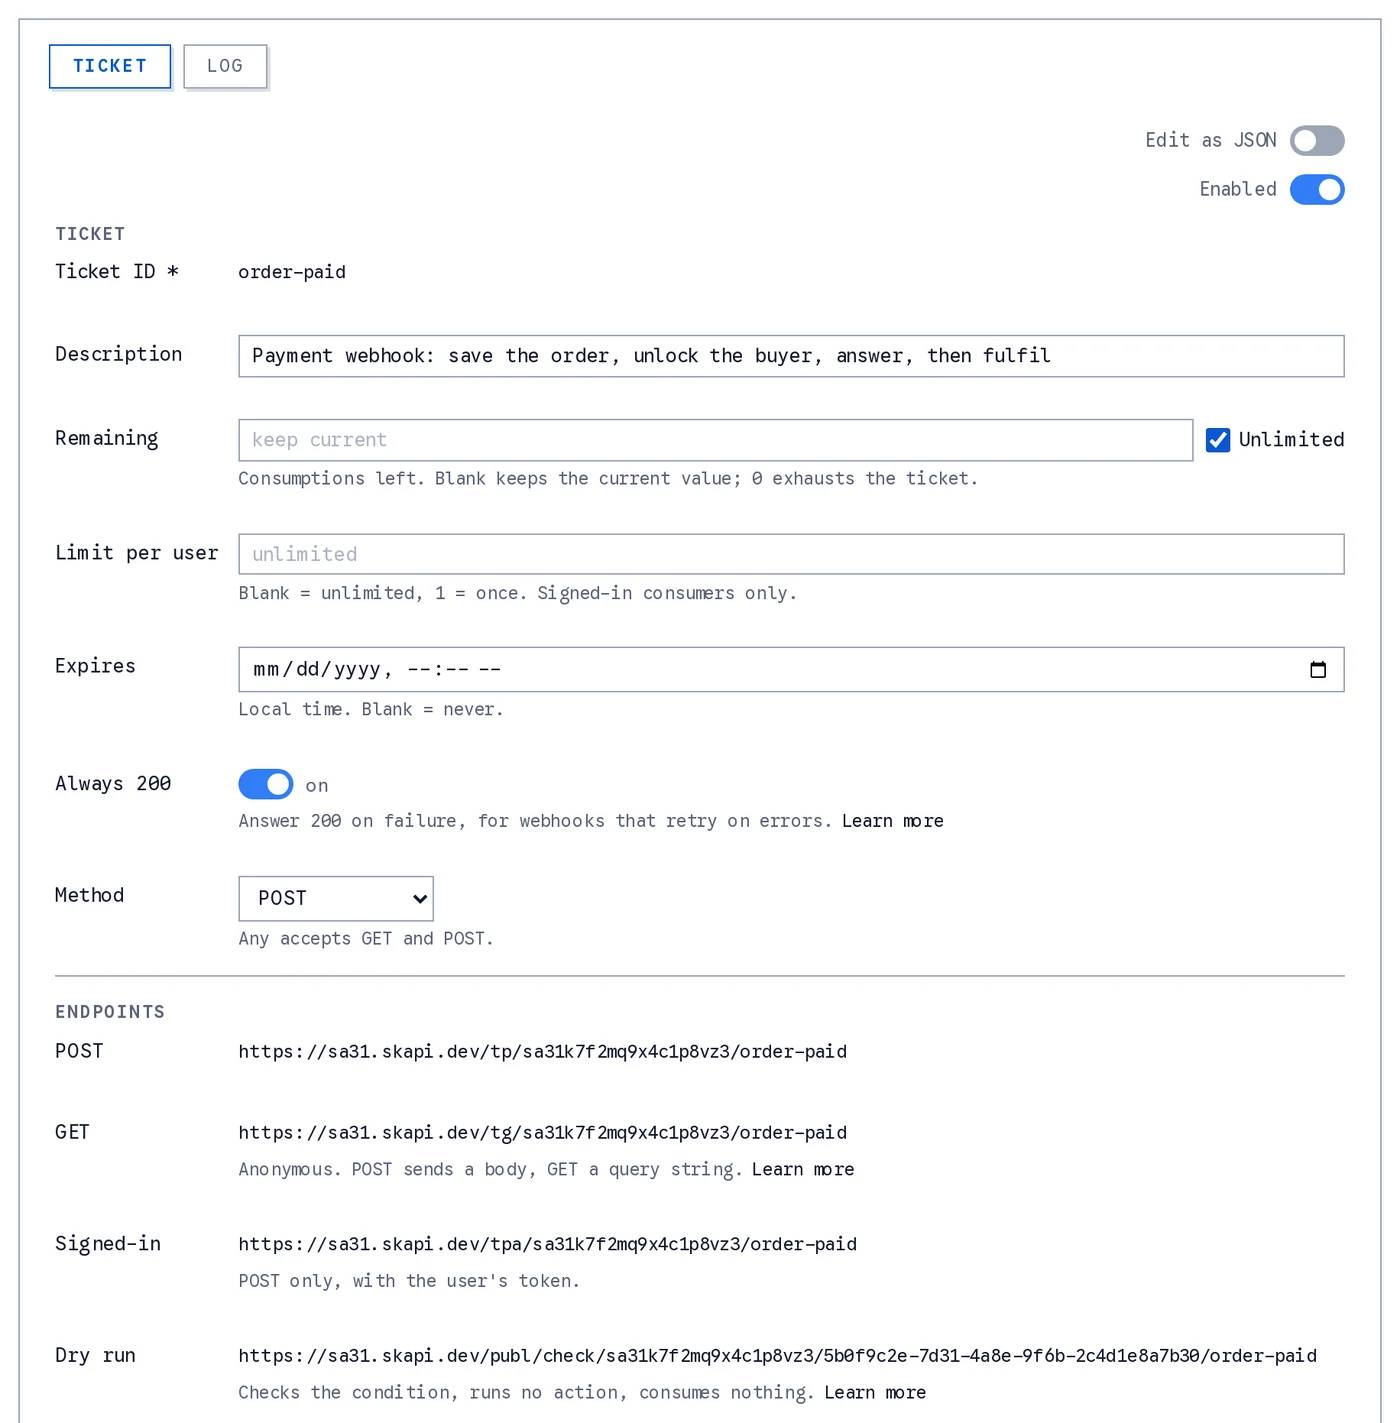
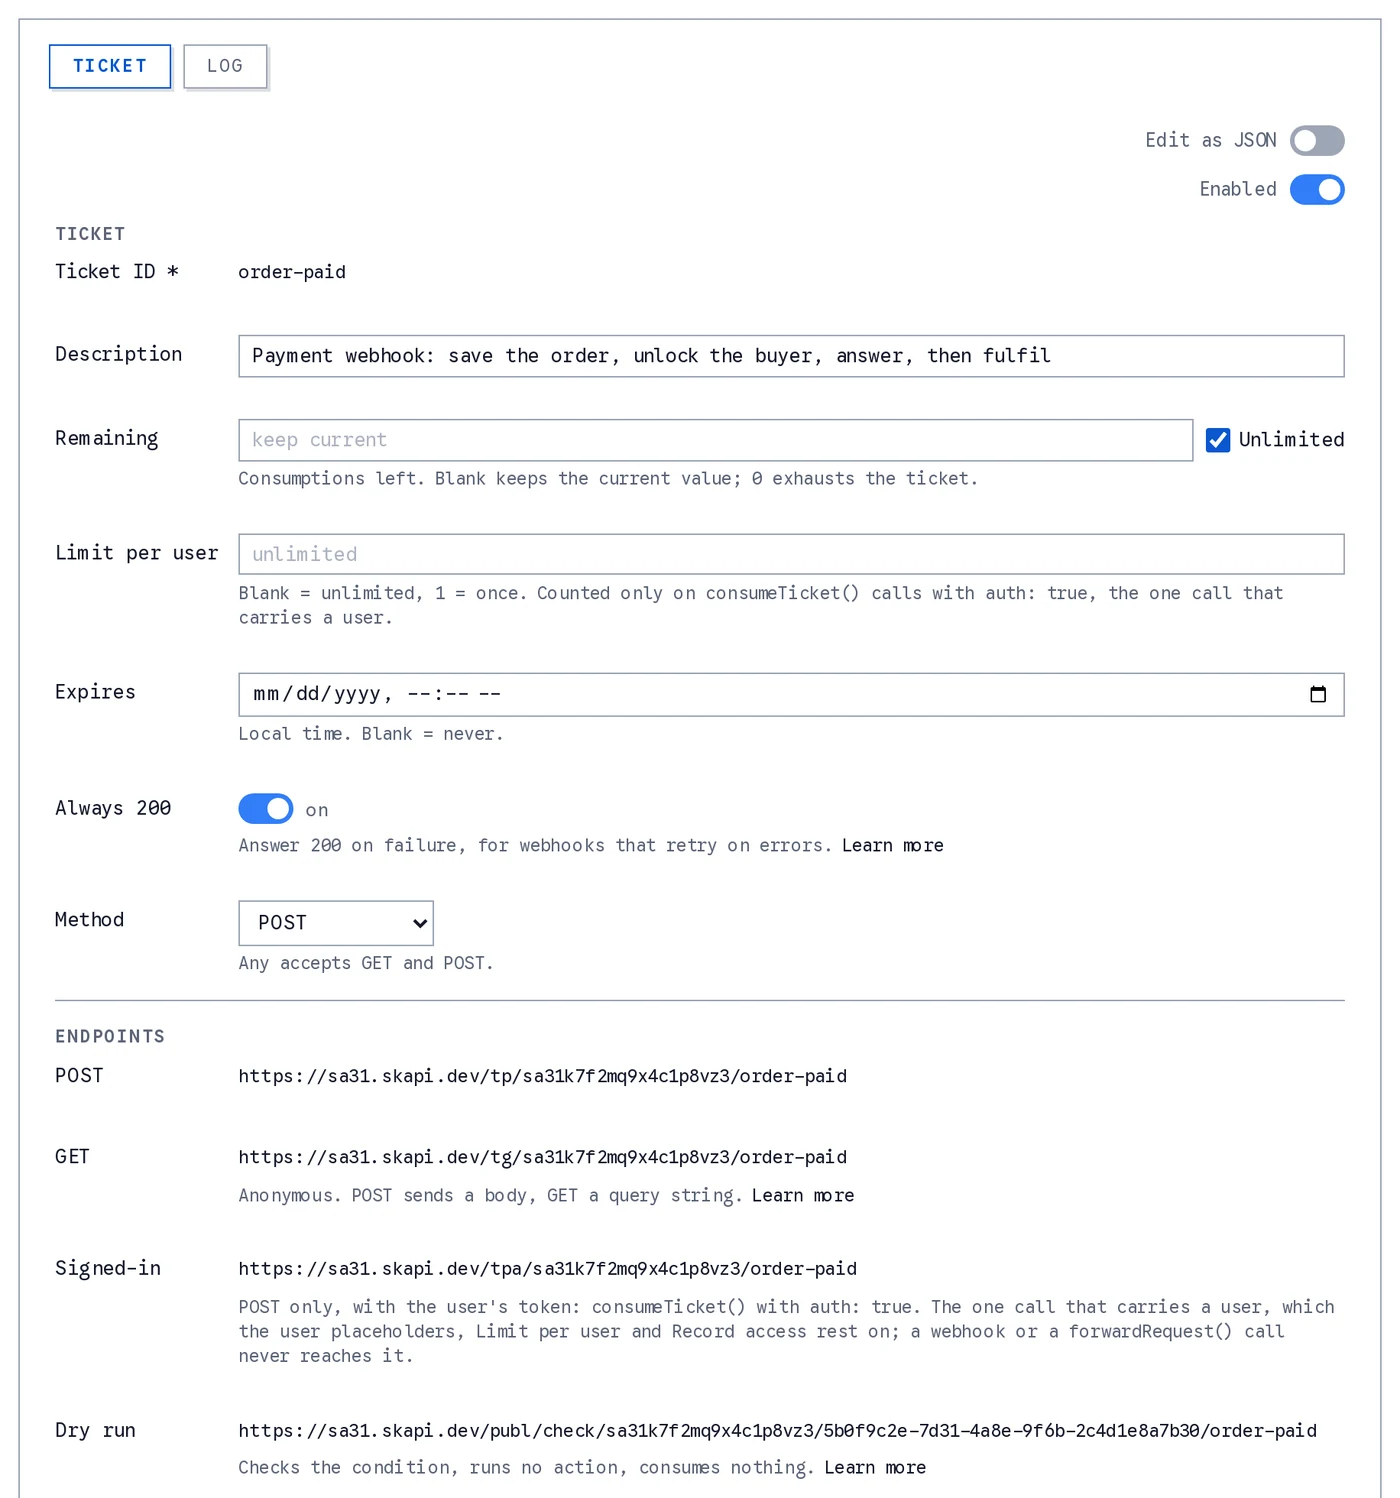
update doc

diff --git a/tickets/introduction.md b/tickets/introduction.md
@@ -43,7 +43,7 @@ The detail view has these sections:
 - **Ticket ID**: the last segment of the endpoint URL. Must match `^[A-Za-z0-9][A-Za-z0-9_-]{0,63}$`; `#`, `!` and `/` are reserved. It cannot be changed after creation.
 - **Description**: up to 500 characters, shown in the list.
 - **Remaining** (`count`): every successful consumption takes one. At `0` the ticket answers `TICKET_EXHAUSTED`. Blank keeps the current value when you update a ticket, and means unlimited on a new one. `0` exhausts the ticket. Tick **Unlimited** to remove the count from an existing ticket.
-- **Limit per user** (`limit_per_user`): how many times one user may consume the ticket. `1` means once. Blank means unlimited. Only signed-in consumptions are counted, so it has no effect on the anonymous endpoints.
+- **Limit per user** (`limit_per_user`): how many times one user may consume the ticket. `1` means once. Blank means unlimited. Counted only on `consumeTicket()` calls with `auth: true`, the one call that carries a user. Only signed-in consumptions are counted, so it has no effect on the anonymous endpoints.
 - **Expires** (`time_to_live`): a date and time after which the ticket answers `TICKET_EXPIRED`, entered in your local time. Blank means never. When set it must be in the future.
 - **Always 200** (`return200`): answer HTTP 200 even when the consumption fails, for webhooks that retry on errors.
 - **Method**: Any, GET or POST. Any accepts both; with GET or POST, a request with the other method fails with `METHOD_NOT_ALLOWED`. See [`return200` and `method`](/tickets/conditions.md#return200-and-method).
@@ -221,6 +221,12 @@ console.log(unlocked);
 ```
 
 `auth: true` with `method: 'GET'` throws `INVALID_PARAMETER: Signed-in consumption is POST only.` before anything is sent.
+
+### Who can call which endpoint
+
+- **The signed-in endpoint** (`/tpa/...`) is called only with `consumeTicket()` and `auth: true`: the SDK sends the user's login token, and that token is what proves who is calling. It is the one call that carries a user, so everything about the consumer rests on it: `${user}` and the `user` condition rows, **Limit per user**, and the `record_access` condition. No other way in reaches it, not another HTTP client, not [`forwardRequest()`](/api-bridge/client-secret-request.md), which never attaches a login token.
+- **The open endpoints** (`/tp/...` and `/tg/...`) take any HTTP client. A page that must send a key the browser may not hold calls them through [`forwardRequest()`](/api-bridge/client-secret-request.md#calling-a-ticket): the key goes in as `$CLIENT_SECRET`, and the ticket's condition checks that header. Such a call has no user: it is anonymous to the ticket, whoever is logged in.
+- **A `signature` condition** is for a webhook sender that signs the raw body with the secret you share with it. A browser cannot produce it, and neither can `forwardRequest()`, which substitutes a value and does not sign.
 
 The object above is the **receipt**. A ticket with a [Respond](/tickets/actions.md#resp-answer-the-caller) action answers what that action composed instead, and `consumeTicket()` resolves with that body as sent, whatever its status: `consumeTicket<{ ok: boolean }>(...)` names its type.
 

diff --git a/tickets/errors.md b/tickets/errors.md
@@ -37,7 +37,7 @@ The status is `400`, or `200` when the ticket's `return200` is on. `INTERNAL_ERR
 | `ISSUER_CANNOT_CONSUME` | ticket | consumer is the ticket issuer | |
 | `AUTH_REQUIRED` | ticket, condition or action | a user is needed and the route is anonymous (a `user` or `record_access` condition, which a webhook can never pass, an action with no `user_id`, or a `${user}` reference), or the token is from another project | |
 | `METHOD_NOT_ALLOWED` | condition | `condition.method` mismatch | `{ "expected": "POST", "received": "GET" }` |
-| `CONDITION_FAILED` | condition, or action for a Check answer | a part of the condition did not pass, or a Check answer row did not match | `{ "field": "signature"\|"ip"\|"user_agent"\|"headers"\|"body"\|"params"\|"user"\|"record_access"\|"loop"\|"response", "keys": [ ...keys that failed ] }` (`keys` empty for signature/ip/user_agent/record_access/loop; `loop` adds `"hops": 8`, the depth a chain of ticket calls within one request reached). See [below](#condition-failed-fields) |
+| `CONDITION_FAILED` | condition, or action for a Check answer | a part of the condition did not pass, or a Check answer row did not match | `{ "field": "signature"\|"ip"\|"user_agent"\|"headers"\|"body"\|"params"\|"user"\|"record_access"\|"response", "keys": [ ...keys that failed ] }` (`keys` empty for signature/ip/user_agent/record_access). See [below](#condition-failed-fields) |
 | `PATH_NOT_FOUND` | action | a [reference](/tickets/conditions.md#references) in an action value could not be resolved | `{ "path": "data[payment][id]" }`, the reference without `${ }` |
 | `PLACEHOLDER_MISSING` | action | `${placeholder[NAME]}` referenced but never captured | `{ "placeholder": "NAME" }` |
 | `REQUEST_FAILED` | action (`req`) | HTTP status >= 300, refused address, connection error, per-call timeout, a header that cannot be sent, or a Secret Key that no longer exists | `{ "status": 502, "body": <the parsed answer, or the first 4 KB of its text when longer> }`, `{ "reason": "timeout" \| "refused_address" \| "connection" }`, `{ "reason": "invalid_header", "header": "<name>" }` (see [the req action](/tickets/actions.md#req-http-request-with-its-own-condition-and-chain)), or `{ "reason": "secret_missing", "secretName": "<name>" }` |
@@ -55,8 +55,6 @@ A code raised inside a `req` action, by its HTTP call or its Then chain, is repo
 ### `CONDITION_FAILED` fields
 
 `detail.field` names the part of the condition that failed, and `detail.keys` the keys of that part that did not pass: header names for `headers`, paths for `body` and `params`, attribute names for `user`. A path the request does not carry is one of those keys; it is never a separate error.
-
-One value is not a part you write: `"loop"`. The request carried an `X-Skapi-Ticket` header, so it was sent by a ticket, and a ticket cannot consume a ticket. The message is `Requests sent by a ticket cannot consume a ticket.` See [URL and address rules](/tickets/actions.md#url-and-address-rules).
 
 ## What `consumeTicket()` Rejects With
 

diff --git a/tickets/actions.md b/tickets/actions.md
@@ -418,7 +418,7 @@ Registration validates the shape of the URL; consumption vets the address on eve
 - A Secret Key's Destinations are compared with the URL as sent, so list what is sent: a hostname outside ASCII in its encoded form (`https://xn--bcher-kva.example`), and a path outside ASCII percent-encoded with uppercase hex, as the engine writes it (`https://api.example.com/caf%C3%A9`, not `/café`, which can never match). A path your URL already writes percent-encoded is compared as you wrote it.
 - Registration refuses a hostname that cannot be encoded, such as `bü..x`, or that holds a character standing for `/`, `?`, `#`, `@` or `:` once normalized, such as the fullwidth `／` of `ex／ample.com`, with `"actions[0].exe.url": URL has an invalid hostname.` It refuses a hostname that is an IP address once encoded, such as `１２７.０.０.１` in fullwidth digits or `8.8.8.8.` with a trailing dot, and any `[` or `]` in the host, with `"actions[0].exe.url": URL must use a hostname, not an IP address.` A call made from a stored URL is refused the same way, with `REQUEST_FAILED` and `reason: "refused_address"`.
 - The engine resolves the host and refuses loopback, link-local (`169.254/16`, `fe80::/10`), private (`10/8`, `172.16/12`, `192.168/16`, `fc00::/7`), unspecified and IPv4-mapped forms of those.
-- A ticket may call a ticket URL (`*.skapi.dev`): another ticket of any project, or itself, which is how a chain repeats (see [Repeating Every 30 Minutes](/tickets/examples.md#repeating-every-30-minutes)). The raw API gateway hosts (`*.execute-api.*.amazonaws.com`) stay refused. What is refused is a chain of ticket calls nested 8 deep within one request, a loop with no wait in it: the consumption at that depth fails with `CONDITION_FAILED`, `field: "loop"` and `"hops": 8`, checked before the condition and even when the ticket has none. A loop that waits (a Respond with `resume`) starts a new request each round and is bounded by the plan's queued ticket runs instead.
+- A ticket may call a ticket URL (`*.skapi.dev`): another ticket of any project, or itself, which is how a chain repeats (see [Repeating Every 30 Minutes](/tickets/examples.md#repeating-every-30-minutes)). The raw API gateway hosts (`*.execute-api.*.amazonaws.com`) stay refused. There is no limit on how deep ticket calls nest: a loop with no wait in it ends when the call's 10-second timeout fails it with `REQUEST_FAILED`, and a loop that waits (a Respond with `resume`) is bounded by the plan's queued ticket runs.
 - The connection is pinned to the vetted address. Redirects are never followed; a 3xx is `REQUEST_FAILED` with its status.
 - A call that carries a Secret Key must be on that key's Destinations, when it has any. See [Sending a Secret Key](#sending-a-secret-key).
 - Every request carries `X-Skapi-Ticket: <service_id>/<ticket_id>`.

diff --git a/tickets/conditions.md b/tickets/conditions.md
@@ -490,7 +490,7 @@ An action reads the result as `${placeholder[GROUP]}`, for instance `{ "act": "a
 ## User
 
 :::warning Signed requests only
-`user` rows read the account of the signed-in consumer, so they only pass for an app user of this project calling [`consumeTicket()`](/api-reference/tickets/README.md#consumeticket) with `auth: true`. A third-party webhook has no session: a ticket with `user` rows always fails for webhooks, with `AUTH_REQUIRED`.
+`user` rows read the account of the signed-in consumer, so they only pass for an app user of this project calling [`consumeTicket()`](/api-reference/tickets/README.md#consumeticket) with `auth: true`. That is the one call that carries a user; a call made any other way, [`forwardRequest()`](/api-bridge/client-secret-request.md#calling-a-ticket) included, has none. A third-party webhook has no session: a ticket with `user` rows always fails for webhooks, with `AUTH_REQUIRED`.
 :::
 
 ```json
@@ -515,7 +515,7 @@ The keys are the consumer's [`UserProfile`](/api-reference/data-types/README.md#
 ## Record Access
 
 :::warning Signed requests only
-`record_access` checks the signed-in consumer, so it only passes for an app user of this project calling [`consumeTicket()`](/api-reference/tickets/README.md#consumeticket) with `auth: true`. A third-party webhook has no session: a ticket with `record_access` always fails for webhooks, with `AUTH_REQUIRED`.
+`record_access` checks the signed-in consumer, so it only passes for an app user of this project calling [`consumeTicket()`](/api-reference/tickets/README.md#consumeticket) with `auth: true`. That is the one call that carries a user; a call made any other way, [`forwardRequest()`](/api-bridge/client-secret-request.md#calling-a-ticket) included, has none. A third-party webhook has no session: a ticket with `record_access` always fails for webhooks, with `AUTH_REQUIRED`.
 :::
 
 `record_access` names a record id. The consumer must be the record's uploader, or have been granted private access to it with [`grantPrivateRecordAccess()`](/database/access-restrictions.md#grant-private-access). A consumer who is neither fails with `CONDITION_FAILED` and `field: "record_access"`.

diff --git a/api-bridge/client-secret-request.md b/api-bridge/client-secret-request.md
@@ -77,6 +77,23 @@ For full parameter details, see the API reference below:
 
 ### [`forwardRequest(form, options): Promise<any>`](/api-reference/api-bridge/README.md#forwardrequest)
 
+## Calling a Ticket
+
+A [ticket](/tickets/introduction.md) is an HTTP endpoint of your own project, and `forwardRequest()` can call its open endpoints (`/tp/...` and `/tg/...`) like any other URL. The use is a ticket whose condition checks a header for a key the browser may not hold: the page sends `$CLIENT_SECRET`, the forwarder fills the key in on the server, and the ticket's `headers` condition compares it. Give that key the ticket URL as its Destination, and nothing else can receive it.
+
+```js
+let answer = await skapi.forwardRequest({ order: 'A-1001' }, {
+    secretName: 'orders_hook_key',
+    url: 'https://eu73.skapi.dev/tp/eu73kXm2PqA9vLb4/order-paid',
+    headers: { Authorization: 'Bearer $CLIENT_SECRET' }
+});
+```
+
+Two things it cannot do:
+
+- Reach the **signed-in endpoint** (`/tpa/...`). That endpoint is proven by the caller's own login token, which the forwarder never attaches, and it is the one call that carries a user: `${user}`, the `user` and `record_access` conditions and the per-user limit all rest on it. A logged-in user calls it with [`consumeTicket()`](/api-reference/tickets/README.md#consumeticket) and `auth: true`; a call through the forwarder is anonymous to the ticket, whoever is logged in.
+- Produce a **`signature`**. That condition expects an HMAC over the raw body, computed by the sender; the forwarder substitutes a value and does not sign.
+
 ## Restricting Where a Key Can Be Sent
 
 `forwardRequest()` takes its `url` from your frontend code, so anyone who can call it can also choose where the request goes. For a key that is not **Locked**, that includes visitors who are not signed in. Without a restriction, a key can be sent to any address, including one that records it.

diff --git a/api-reference/tickets/README.md b/api-reference/tickets/README.md
@@ -23,7 +23,7 @@ consumeTicket<T = TicketReceipt>(
     params: {
         ticket_id: string; // The ticket to consume.
         method: 'GET' | 'POST'; // 'POST' sends data as the JSON body. 'GET' sends it as the query string.
-        auth?: boolean; // Consume on the signed-in endpoint, as the logged-in user. POST only. Needed by a ticket whose condition has user or record_access.
+        auth?: boolean; // Consume on the signed-in endpoint, as the logged-in user. POST only. The one call that carries a user: ${user}, the user and record_access conditions and the per-user limit see only this. forwardRequest() cannot reach that endpoint.
         data?: { [key: string]: any }; // The request data: the JSON body of a POST, read by body rows and ${body}, or the query string of a GET, read by params rows and ${params}.
     }
 ): Promise<T> // The receipt below, or the body a Respond action of the ticket answered.
